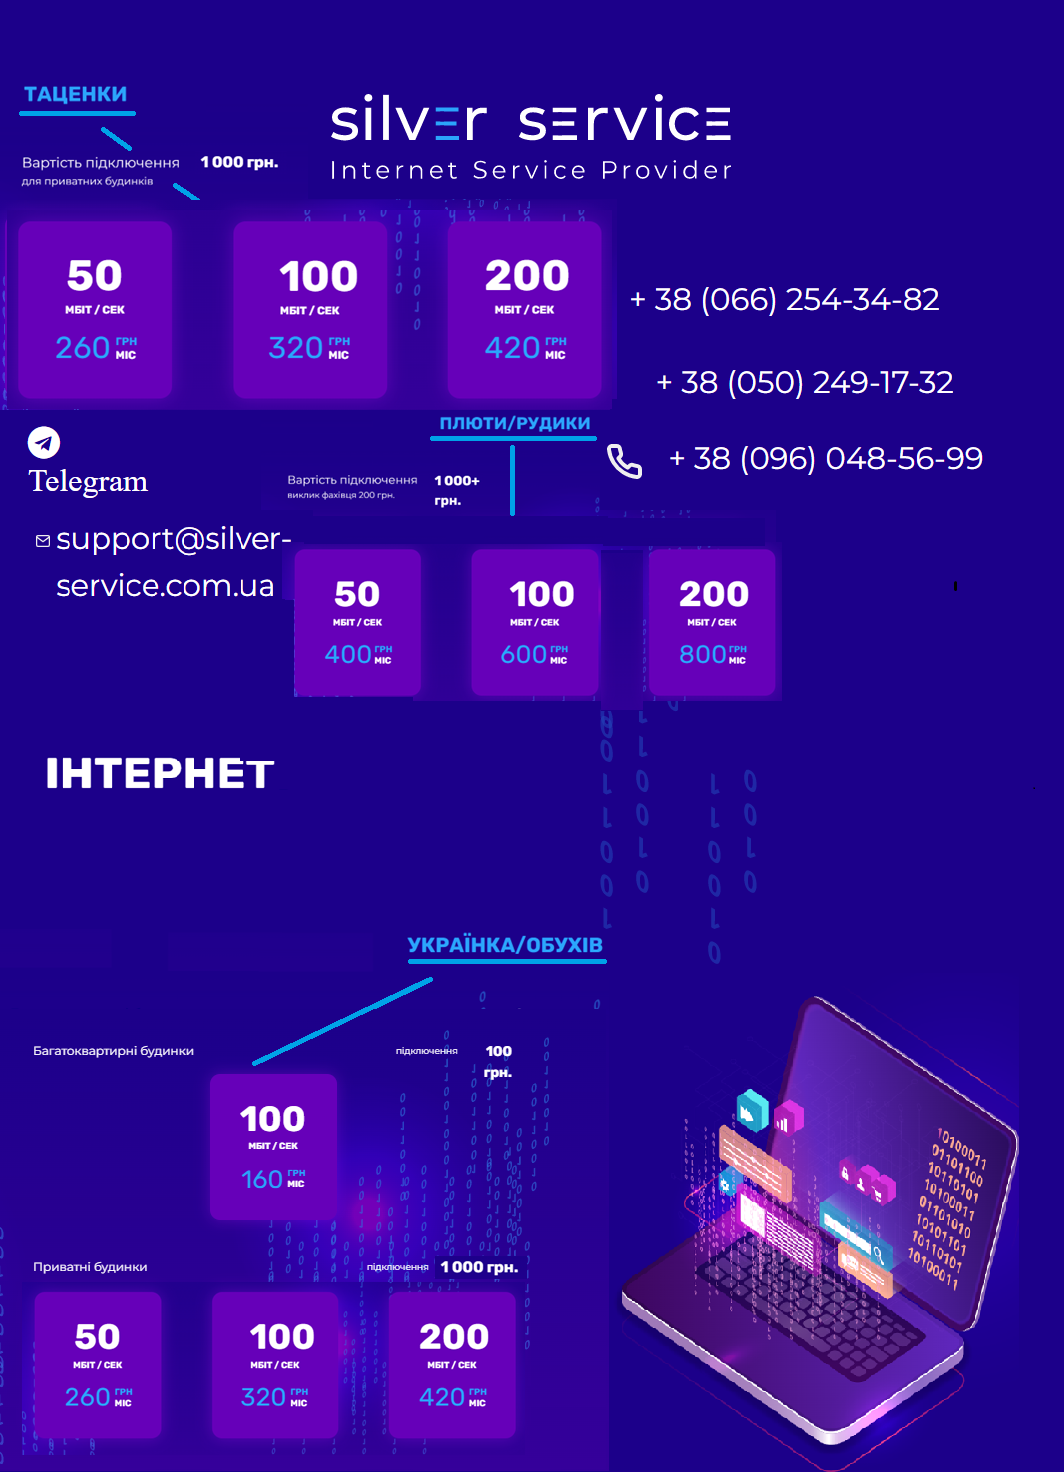
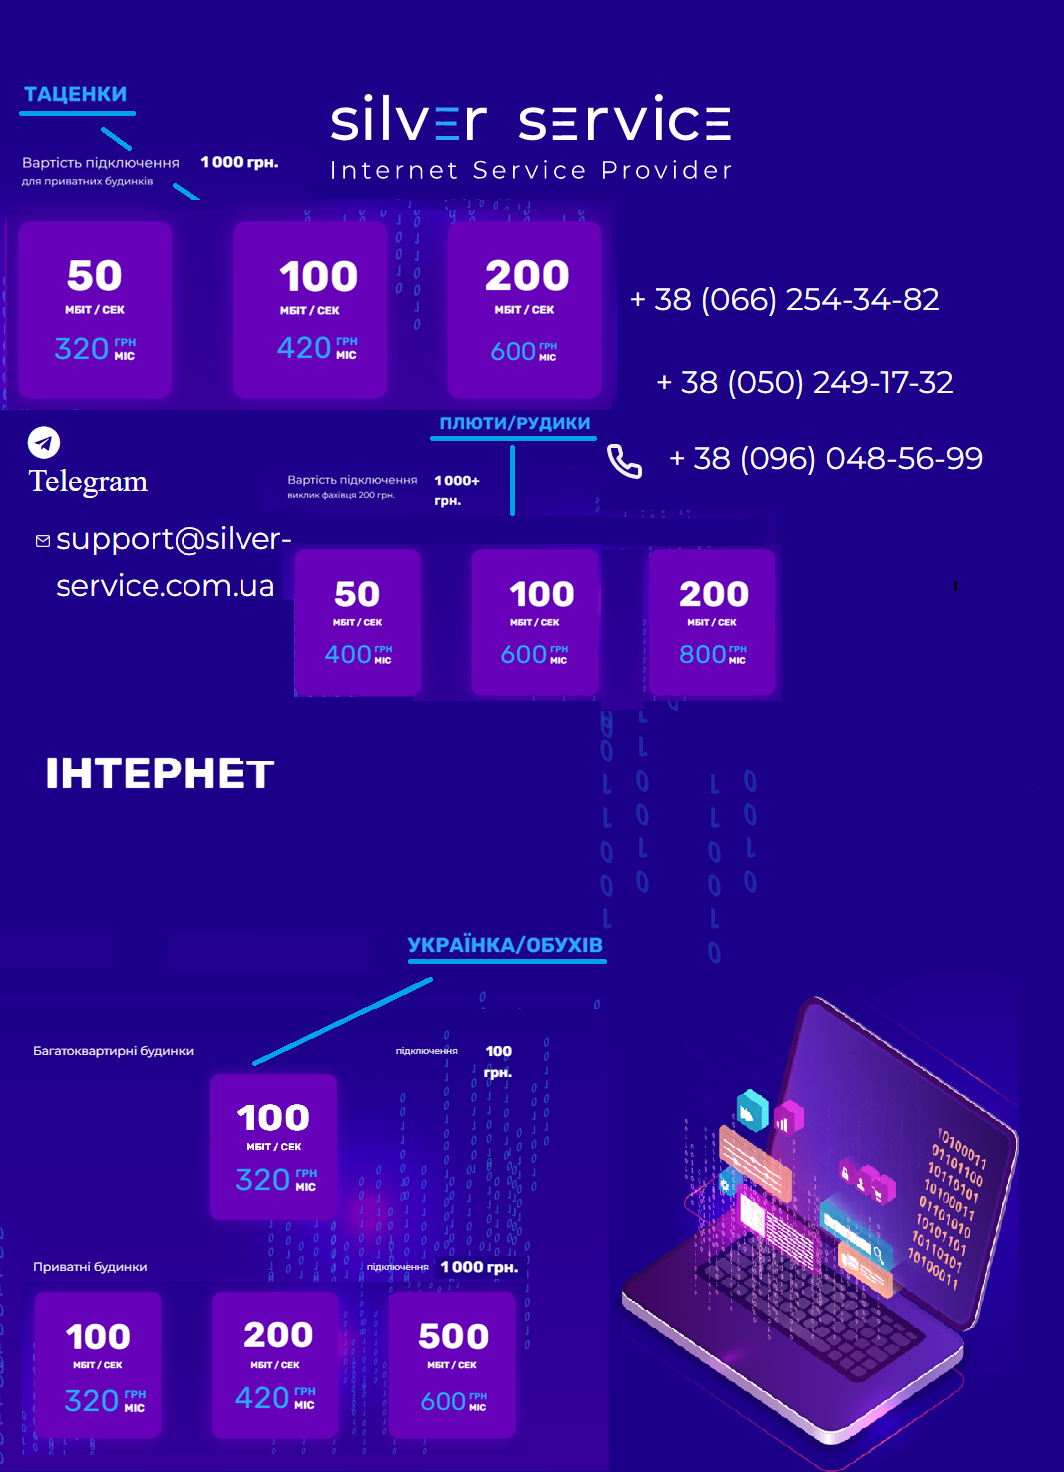
tariff changes

diff --git a/public/index.html b/public/index.html
@@ -2970,7 +2970,7 @@
                         <div class='tn-atom' field='tn_text_1578146592045'>МБІТ / СЕК</div>
                     </div>
                     <div class='t396__elem tn-elem tn-elem__1495214261578146657368' data-elem-id='1578146657368' data-elem-type='text' data-field-top-value="343" data-field-left-value="180" data-field-width-value="100" data-field-axisy-value="top" data-field-axisx-value="left" data-field-container-value="grid" data-field-topunits-value="" data-field-leftunits-value="" data-field-heightunits-value="" data-field-widthunits-value="">
-                        <div class='tn-atom' field='tn_text_1578146657368'>260</div>
+                        <div class='tn-atom' field='tn_text_1578146657368'>320</div>
                     </div>
                     <div class='t396__elem tn-elem tn-elem__1495214261578146717073' data-elem-id='1578146717073' data-elem-type='text' data-field-top-value="343" data-field-left-value="280" data-field-width-value="40" data-field-axisy-value="top" data-field-axisx-value="left" data-field-container-value="grid" data-field-topunits-value="" data-field-leftunits-value="" data-field-heightunits-value="" data-field-widthunits-value="">
                         <div class='tn-atom' field='tn_text_1578146717073'>ГРН</div>
@@ -2988,7 +2988,7 @@
                         <div class='tn-atom' field='tn_text_1578146827799'>МБІТ / СЕК</div>
                     </div>
                     <div class='t396__elem tn-elem tn-elem__1495214261578146827807' data-elem-id='1578146827807' data-elem-type='text' data-field-top-value="343" data-field-left-value="531" data-field-width-value="100" data-field-axisy-value="top" data-field-axisx-value="left" data-field-container-value="grid" data-field-topunits-value="" data-field-leftunits-value="" data-field-heightunits-value="" data-field-widthunits-value="">
-                        <div class='tn-atom' field='tn_text_1578146827807'>320</div>
+                        <div class='tn-atom' field='tn_text_1578146827807'>420</div>
                     </div>
                     <div class='t396__elem tn-elem tn-elem__1495214261578146827815' data-elem-id='1578146827815' data-elem-type='text' data-field-top-value="343" data-field-left-value="631" data-field-width-value="40" data-field-axisy-value="top" data-field-axisx-value="left" data-field-container-value="grid" data-field-topunits-value="" data-field-leftunits-value="" data-field-heightunits-value="" data-field-widthunits-value="">
                         <div class='tn-atom' field='tn_text_1578146827815'>ГРН</div>
@@ -3006,7 +3006,7 @@
                         <div class='tn-atom' field='tn_text_1578146918033'>МБІТ / СЕК</div>
                     </div>
                     <div class='t396__elem tn-elem tn-elem__1495214261578146918041' data-elem-id='1578146918041' data-elem-type='text' data-field-top-value="343" data-field-left-value="888" data-field-width-value="100" data-field-axisy-value="top" data-field-axisx-value="left" data-field-container-value="grid" data-field-topunits-value="" data-field-leftunits-value="" data-field-heightunits-value="" data-field-widthunits-value="">
-                        <div class='tn-atom' field='tn_text_1578146918041'>420</div>
+                        <div class='tn-atom' field='tn_text_1578146918041'>600</div>
                     </div>
                     <div class='t396__elem tn-elem tn-elem__1495214261578146918049' data-elem-id='1578146918049' data-elem-type='text' data-field-top-value="343" data-field-left-value="988" data-field-width-value="40" data-field-axisy-value="top" data-field-axisx-value="left" data-field-container-value="grid" data-field-topunits-value="" data-field-leftunits-value="" data-field-heightunits-value="" data-field-widthunits-value="">
                         <div class='tn-atom' field='tn_text_1578146918049'>ГРН</div>
@@ -3984,7 +3984,7 @@
                         <div class='tn-atom' field='tn_text_1578146827799'>МБІТ / СЕК</div>
                     </div>
                     <div class='t396__elem tn-elem tn-elem__1531501011578146827807' data-elem-id='1578146827807' data-elem-type='text' data-field-top-value="295" data-field-left-value="529" data-field-width-value="100" data-field-axisy-value="top" data-field-axisx-value="left" data-field-container-value="grid" data-field-topunits-value="" data-field-leftunits-value="" data-field-heightunits-value="" data-field-widthunits-value="">
-                        <div class='tn-atom' field='tn_text_1578146827807'>200</div>
+                        <div class='tn-atom' field='tn_text_1578146827807'>320</div>
                     </div>
                     <div class='t396__elem tn-elem tn-elem__1531501011578146827815' data-elem-id='1578146827815' data-elem-type='text' data-field-top-value="295" data-field-left-value="629" data-field-width-value="40" data-field-axisy-value="top" data-field-axisx-value="left" data-field-container-value="grid" data-field-topunits-value="" data-field-leftunits-value="" data-field-heightunits-value="" data-field-widthunits-value="">
                         <div class='tn-atom' field='tn_text_1578146827815'>ГРН</div>
@@ -3996,13 +3996,13 @@
                         <div class='tn-atom'> </div>
                     </div>
                     <div class='t396__elem tn-elem tn-elem__1531501011578310583378' data-elem-id='1578310583378' data-elem-type='text' data-field-top-value="589" data-field-left-value="196" data-field-width-value="100" data-field-axisy-value="top" data-field-axisx-value="left" data-field-container-value="grid" data-field-topunits-value="" data-field-leftunits-value="" data-field-heightunits-value="" data-field-widthunits-value="">
-                        <div class='tn-atom' field='tn_text_1578310583378'>50</div>
+                        <div class='tn-atom' field='tn_text_1578310583378'>100</div>
                     </div>
                     <div class='t396__elem tn-elem tn-elem__1531501011578310583396' data-elem-id='1578310583396' data-elem-type='text' data-field-top-value="673" data-field-left-value="191" data-field-width-value="110" data-field-axisy-value="top" data-field-axisx-value="left" data-field-container-value="grid" data-field-topunits-value="" data-field-leftunits-value="" data-field-heightunits-value="" data-field-widthunits-value="">
                         <div class='tn-atom' field='tn_text_1578310583396'>МБІТ / СЕК</div>
                     </div>
                     <div class='t396__elem tn-elem tn-elem__1531501011578310583405' data-elem-id='1578310583405' data-elem-type='text' data-field-top-value="726" data-field-left-value="180" data-field-width-value="100" data-field-axisy-value="top" data-field-axisx-value="left" data-field-container-value="grid" data-field-topunits-value="" data-field-leftunits-value="" data-field-heightunits-value="" data-field-widthunits-value="">
-                        <div class='tn-atom' field='tn_text_1578310583405'>260</div>
+                        <div class='tn-atom' field='tn_text_1578310583405'>320</div>
                     </div>
                     <div class='t396__elem tn-elem tn-elem__1531501011578310583413' data-elem-id='1578310583413' data-elem-type='text' data-field-top-value="726" data-field-left-value="280" data-field-width-value="40" data-field-axisy-value="top" data-field-axisx-value="left" data-field-container-value="grid" data-field-topunits-value="" data-field-leftunits-value="" data-field-heightunits-value="" data-field-widthunits-value="">
                         <div class='tn-atom' field='tn_text_1578310583413'>ГРН</div>
@@ -4014,13 +4014,13 @@
                         <div class='tn-atom'> </div>
                     </div>
                     <div class='t396__elem tn-elem tn-elem__1531501011578310583437' data-elem-id='1578310583437' data-elem-type='text' data-field-top-value="591" data-field-left-value="550" data-field-width-value="100" data-field-axisy-value="top" data-field-axisx-value="left" data-field-container-value="grid" data-field-topunits-value="" data-field-leftunits-value="" data-field-heightunits-value="" data-field-widthunits-value="">
-                        <div class='tn-atom' field='tn_text_1578310583437'>100</div>
+                        <div class='tn-atom' field='tn_text_1578310583437'>200</div>
                     </div>
                     <div class='t396__elem tn-elem tn-elem__1531501011578310583443' data-elem-id='1578310583443' data-elem-type='text' data-field-top-value="675" data-field-left-value="545" data-field-width-value="110" data-field-axisy-value="top" data-field-axisx-value="left" data-field-container-value="grid" data-field-topunits-value="" data-field-leftunits-value="" data-field-heightunits-value="" data-field-widthunits-value="">
                         <div class='tn-atom' field='tn_text_1578310583443'>МБІТ / СЕК</div>
                     </div>
                     <div class='t396__elem tn-elem tn-elem__1531501011578310583448' data-elem-id='1578310583448' data-elem-type='text' data-field-top-value="726" data-field-left-value="531" data-field-width-value="100" data-field-axisy-value="top" data-field-axisx-value="left" data-field-container-value="grid" data-field-topunits-value="" data-field-leftunits-value="" data-field-heightunits-value="" data-field-widthunits-value="">
-                        <div class='tn-atom' field='tn_text_1578310583448'>320</div>
+                        <div class='tn-atom' field='tn_text_1578310583448'>420</div>
                     </div>
                     <div class='t396__elem tn-elem tn-elem__1531501011578310583453' data-elem-id='1578310583453' data-elem-type='text' data-field-top-value="726" data-field-left-value="631" data-field-width-value="40" data-field-axisy-value="top" data-field-axisx-value="left" data-field-container-value="grid" data-field-topunits-value="" data-field-leftunits-value="" data-field-heightunits-value="" data-field-widthunits-value="">
                         <div class='tn-atom' field='tn_text_1578310583453'>ГРН</div>
@@ -4032,13 +4032,13 @@
                         <div class='tn-atom'> </div>
                     </div>
                     <div class='t396__elem tn-elem tn-elem__1531501011578310583469' data-elem-id='1578310583469' data-elem-type='text' data-field-top-value="589" data-field-left-value="888" data-field-width-value="100" data-field-axisy-value="top" data-field-axisx-value="left" data-field-container-value="grid" data-field-topunits-value="" data-field-leftunits-value="" data-field-heightunits-value="" data-field-widthunits-value="">
-                        <div class='tn-atom' field='tn_text_1578310583469'>200</div>
+                        <div class='tn-atom' field='tn_text_1578310583469'>500</div>
                     </div>
                     <div class='t396__elem tn-elem tn-elem__1531501011578310583475' data-elem-id='1578310583475' data-elem-type='text' data-field-top-value="673" data-field-left-value="899" data-field-width-value="110" data-field-axisy-value="top" data-field-axisx-value="left" data-field-container-value="grid" data-field-topunits-value="" data-field-leftunits-value="" data-field-heightunits-value="" data-field-widthunits-value="">
                         <div class='tn-atom' field='tn_text_1578310583475'>МБІТ / СЕК</div>
                     </div>
                     <div class='t396__elem tn-elem tn-elem__1531501011578310583480' data-elem-id='1578310583480' data-elem-type='text' data-field-top-value="726" data-field-left-value="888" data-field-width-value="100" data-field-axisy-value="top" data-field-axisx-value="left" data-field-container-value="grid" data-field-topunits-value="" data-field-leftunits-value="" data-field-heightunits-value="" data-field-widthunits-value="">
-                        <div class='tn-atom' field='tn_text_1578310583480'>420</div>
+                        <div class='tn-atom' field='tn_text_1578310583480'>600</div>
                     </div>
                     <div class='t396__elem tn-elem tn-elem__1531501011578310583484' data-elem-id='1578310583484' data-elem-type='text' data-field-top-value="726" data-field-left-value="988" data-field-width-value="40" data-field-axisy-value="top" data-field-axisx-value="left" data-field-container-value="grid" data-field-topunits-value="" data-field-leftunits-value="" data-field-heightunits-value="" data-field-widthunits-value="">
                         <div class='tn-atom' field='tn_text_1578310583484'>ГРН</div>

diff --git a/public/page8498574.html b/public/page8498574.html
@@ -1661,42 +1661,42 @@
           data-field-axisy-value="top" data-field-axisx-value="left" data-field-container-value="grid"
           data-field-topunits-value="" data-field-leftunits-value="" data-field-heightunits-value=""
           data-field-widthunits-value="">
-          <div class='tn-atom' field='tn_text_1576694723892'>50 Мбіт/сек</div>
+          <div class='tn-atom' field='tn_text_1576694723892'>100 Мбіт/сек</div>
         </div>
         <div class='t396__elem tn-elem tn-elem__1503336031576694732171' data-elem-id='1576694732171'
           data-elem-type='text' data-field-top-value="223" data-field-left-value="220" data-field-width-value="560"
           data-field-axisy-value="top" data-field-axisx-value="left" data-field-container-value="grid"
           data-field-topunits-value="" data-field-leftunits-value="" data-field-heightunits-value=""
           data-field-widthunits-value="">
-          <div class='tn-atom' field='tn_text_1576694732171'>100 Мбіт/сек</div>
+          <div class='tn-atom' field='tn_text_1576694732171'>200 Мбіт/сек</div>
         </div>
         <div class='t396__elem tn-elem tn-elem__1503336031576694734882' data-elem-id='1576694734882'
           data-elem-type='text' data-field-top-value="266" data-field-left-value="220" data-field-width-value="560"
           data-field-axisy-value="top" data-field-axisx-value="left" data-field-container-value="grid"
           data-field-topunits-value="" data-field-leftunits-value="" data-field-heightunits-value=""
           data-field-widthunits-value="">
-          <div class='tn-atom' field='tn_text_1576694734882'>200 Мбіт/сек</div>
+          <div class='tn-atom' field='tn_text_1576694734882'>500 Мбіт/сек</div>
         </div>
         <div class='t396__elem tn-elem tn-elem__1503336031576694814706' data-elem-id='1576694814706'
           data-elem-type='text' data-field-top-value="418" data-field-left-value="770" data-field-width-value="210"
           data-field-axisy-value="top" data-field-axisx-value="left" data-field-container-value="grid"
           data-field-topunits-value="" data-field-leftunits-value="" data-field-heightunits-value=""
           data-field-widthunits-value="">
-          <div class='tn-atom' field='tn_text_1576694814706'>100 грн. на міс.</div>
+          <div class='tn-atom' field='tn_text_1576694814706'>320 грн. на міс</div>
         </div>
         <div class='t396__elem tn-elem tn-elem__1503336031576694853225' data-elem-id='1576694853225'
           data-elem-type='text' data-field-top-value="223" data-field-left-value="770" data-field-width-value="210"
           data-field-axisy-value="top" data-field-axisx-value="left" data-field-container-value="grid"
           data-field-topunits-value="" data-field-leftunits-value="" data-field-heightunits-value=""
           data-field-widthunits-value="">
-          <div class='tn-atom' field='tn_text_1576694853225'>320 грн. на міс.</div>
+          <div class='tn-atom' field='tn_text_1576694853225'>420 грн. на міс.</div>
         </div>
         <div class='t396__elem tn-elem tn-elem__1503336031576694855093' data-elem-id='1576694855093'
           data-elem-type='text' data-field-top-value="266" data-field-left-value="770" data-field-width-value="210"
           data-field-axisy-value="top" data-field-axisx-value="left" data-field-container-value="grid"
           data-field-topunits-value="" data-field-leftunits-value="" data-field-heightunits-value=""
           data-field-widthunits-value="">
-          <div class='tn-atom' field='tn_text_1576694855093'>420 грн. на міс.</div>
+          <div class='tn-atom' field='tn_text_1576694855093'>600 грн. на міс.</div>
         </div>
         <div class='t396__elem tn-elem tn-elem__1503336031576694890395' data-elem-id='1576694890395'
           data-elem-type='shape' data-field-top-value="216" data-field-left-value="212" data-field-height-value="1"
@@ -1807,7 +1807,7 @@
           data-field-axisy-value="top" data-field-axisx-value="left" data-field-container-value="grid"
           data-field-topunits-value="" data-field-leftunits-value="" data-field-heightunits-value=""
           data-field-widthunits-value="">
-          <div class='tn-atom' field='tn_text_1576931295265'>260 грн. на міс.</div>
+          <div class='tn-atom' field='tn_text_1576931295265'>320 грн. на міс</div>
         </div>
         <div class='t396__elem tn-elem tn-elem__1503336031576931372046' data-elem-id='1576931372046'
           data-elem-type='text' data-field-top-value="646" data-field-left-value="778" data-field-width-value="202"
@@ -2909,7 +2909,7 @@
           data-field-axisy-value="top" data-field-axisx-value="left" data-field-container-value="grid"
           data-field-topunits-value="" data-field-leftunits-value="" data-field-heightunits-value=""
           data-field-widthunits-value="">
-          <div class='tn-atom' field='tn_text_1576694814706'>100 грн. на міс.</div>
+          <div class='tn-atom' field='tn_text_1576694814706'>320 грн. на міс</div>
         </div>
         <div class='t396__elem tn-elem tn-elem__1503336031576694853225' data-elem-id='1576694853225'
           data-elem-type='text' data-field-top-value="223" data-field-left-value="770" data-field-width-value="210"
@@ -2958,7 +2958,7 @@
           data-field-axisy-value="top" data-field-axisx-value="left" data-field-container-value="grid"
           data-field-topunits-value="" data-field-leftunits-value="" data-field-heightunits-value=""
           data-field-widthunits-value="">
-          <div class='tn-atom' field='tn_text_1576696594321'>200 грн. </div>
+          <div class='tn-atom' field='tn_text_1576696594321'>100 грн. </div>
         </div>
         <div class='t396__elem tn-elem tn-elem__1503336031576696594340' data-elem-id='1576696594340'
           data-elem-type='text' data-field-top-value="461" data-field-left-value="220" data-field-width-value="560"
@@ -3971,7 +3971,7 @@
           data-field-axisy-value="top" data-field-axisx-value="left" data-field-container-value="grid"
           data-field-topunits-value="" data-field-leftunits-value="" data-field-heightunits-value=""
           data-field-widthunits-value="">
-          <div class='tn-atom' field='tn_text_1576694814706'>100 грн. на міс.</div>
+          <div class='tn-atom' field='tn_text_1576694814706'>320 грн. на міс</div>
         </div>
         <div class='t396__elem tn-elem tn-elem__1531676421576695041490' data-elem-id='1576695041490'
           data-elem-type='text' data-field-top-value="288" data-field-left-value="220" data-field-width-value="560"
